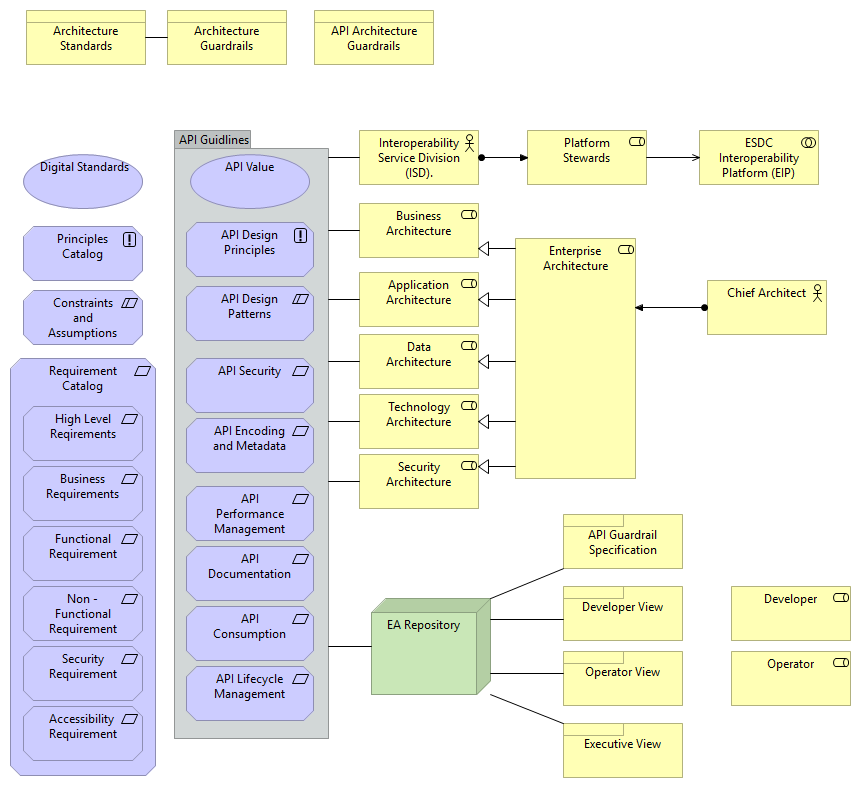
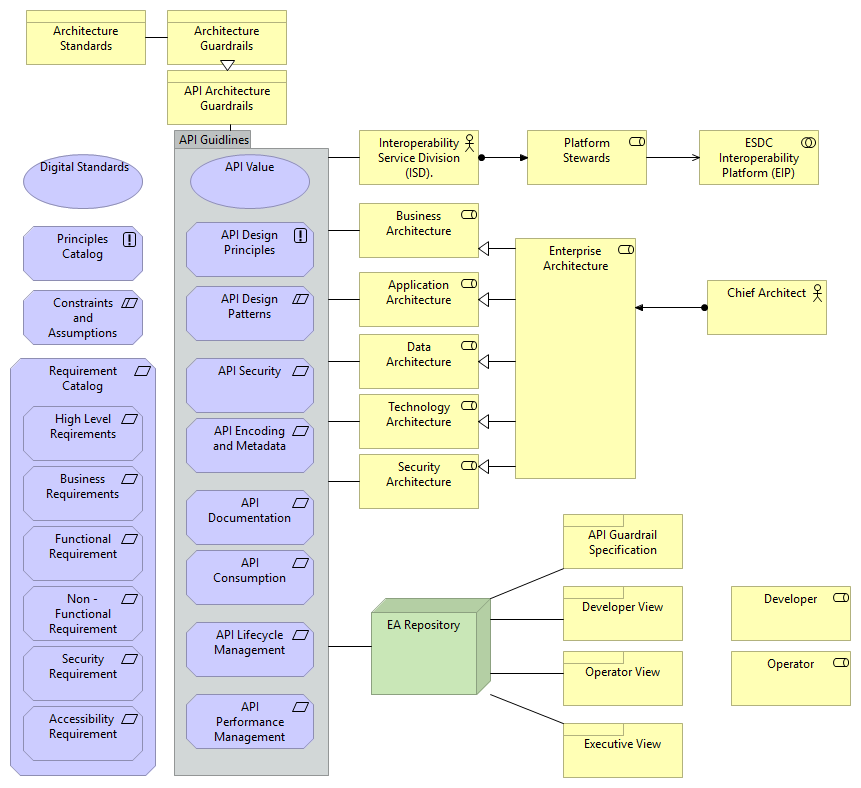
API GL Plan

Changed region(s): [[0.1812, 0.6091, 0.3926, 1.0], [0.1812, 0.0609, 0.3322, 0.1827], [0.3624, 0.0, 0.5134, 0.0914]]

diff --git a/reports/CommonSandbox Report/e8ecca68-8692-400d-9425-b00d60784a26/elements/model.html b/reports/CommonSandbox Report/e8ecca68-8692-400d-9425-b00d60784a26/elements/model.html
@@ -1103,6 +1103,8 @@
 										dataElements.push({id:"5dff957a-8be6-4078-91fb-82da8abefbd2", type:"BusinessObject", name:decodeURL("External"), documentation:decodeURL("")});
 									dataFoldersContent.push({folderid:"b450b6a4-519b-4191-a289-4df897ca0a1b", contentid:"5d2162f8-f209-4747-b617-38861b9877d8", contenttype:"BusinessObject"});
 										dataElements.push({id:"5d2162f8-f209-4747-b617-38861b9877d8", type:"BusinessObject", name:decodeURL("Internal"), documentation:decodeURL("")});
+									dataFoldersContent.push({folderid:"b450b6a4-519b-4191-a289-4df897ca0a1b", contentid:"f7898772-abf9-411e-99bd-1dfcaa46b428", contenttype:"Representation"});
+										dataElements.push({id:"f7898772-abf9-411e-99bd-1dfcaa46b428", type:"Representation", name:decodeURL("Business+Case"), documentation:decodeURL("")});
 
 								dataFoldersContent.push({folderid:"e8ecca68-8692-400d-9425-b00d60784a26", contentid:"4b1b92bd-7586-4e58-927a-fdad7c2d42fb", contenttype:"Folder"});
 								dataFolders.push({id:"4b1b92bd-7586-4e58-927a-fdad7c2d42fb", type:"Folder", name:decodeURL("Application"), documentation:decodeURL("")});
@@ -2361,15 +2363,15 @@
 									dataFoldersContent.push({folderid:"0098779f-eaf3-4d47-a68a-16743a5b13a9", contentid:"5ba95759-e9aa-425c-95f2-177bcc321286", contenttype:"Value"});
 										dataElements.push({id:"5ba95759-e9aa-425c-95f2-177bcc321286", type:"Value", name:decodeURL("Value"), documentation:decodeURL("")});
 									dataFoldersContent.push({folderid:"0098779f-eaf3-4d47-a68a-16743a5b13a9", contentid:"ae0a607e-3e24-4230-8bdd-9173655b9c1e", contenttype:"Requirement"});
-										dataElements.push({id:"ae0a607e-3e24-4230-8bdd-9173655b9c1e", type:"Requirement", name:decodeURL("API+Security"), documentation:decodeURL("")});
+										dataElements.push({id:"ae0a607e-3e24-4230-8bdd-9173655b9c1e", type:"Requirement", name:decodeURL("API+Security"), documentation:decodeURL("as+part+of+a+%22security+by+design%22+philosophy+for+all+API+development.+Outside+of+this+baseline+set+of+security+controls%2C+additional+controls+%28e.g.%2C+message-level+encryption%2C+mutual+authentication%2C+and+digital+signatures%29+may+be+required+based+on+the+sensitivity+of+the+data")});
 									dataFoldersContent.push({folderid:"0098779f-eaf3-4d47-a68a-16743a5b13a9", contentid:"5b7fb433-497c-48bc-b8b5-4431d25a8e15", contenttype:"Requirement"});
-										dataElements.push({id:"5b7fb433-497c-48bc-b8b5-4431d25a8e15", type:"Requirement", name:decodeURL("API+Encoding+and+Metadata"), documentation:decodeURL("")});
+										dataElements.push({id:"5b7fb433-497c-48bc-b8b5-4431d25a8e15", type:"Requirement", name:decodeURL("API+Encoding+and+Metadata"), documentation:decodeURL("Consistent+metadata+and+encoding+ensures+that+APIs+are+interoperable+across+organizations+and+helps+to+maintain+data+consistency.+")});
 									dataFoldersContent.push({folderid:"0098779f-eaf3-4d47-a68a-16743a5b13a9", contentid:"825a3a8c-1c2a-4e9e-a5d4-f68cec47d618", contenttype:"Requirement"});
-										dataElements.push({id:"825a3a8c-1c2a-4e9e-a5d4-f68cec47d618", type:"Requirement", name:decodeURL("API+Documentation"), documentation:decodeURL("")});
+										dataElements.push({id:"825a3a8c-1c2a-4e9e-a5d4-f68cec47d618", type:"Requirement", name:decodeURL("API+Documentation"), documentation:decodeURL("ESDC+APIs+must+be+published+to+the+Government+of+Canada+API+store+to+be+discoverable.+The+documentation+MVP+for+ESDC+APIs+includes+everything+the+API+does%2C+including+resources%2C+endpoints+and+methods%2C+parameters%2C+error+codes%2C+and+example+requests+and+responses")});
 									dataFoldersContent.push({folderid:"0098779f-eaf3-4d47-a68a-16743a5b13a9", contentid:"146c40d8-0153-496b-a1bf-01b4795850b3", contenttype:"Requirement"});
-										dataElements.push({id:"146c40d8-0153-496b-a1bf-01b4795850b3", type:"Requirement", name:decodeURL("API+Consumption"), documentation:decodeURL("")});
+										dataElements.push({id:"146c40d8-0153-496b-a1bf-01b4795850b3", type:"Requirement", name:decodeURL("API+Consumption"), documentation:decodeURL("The+best+way+to+validate+your+API+design+is+to+consume+it+with+a+production+application+within+your+organization.+Ideally%2C+once+the+data+layer+is+built%2C+the+next+step+is+to+build+the+application+on+top+of+an+API")});
 									dataFoldersContent.push({folderid:"0098779f-eaf3-4d47-a68a-16743a5b13a9", contentid:"97283225-f9a6-4604-8772-d60298f6017f", contenttype:"Requirement"});
-										dataElements.push({id:"97283225-f9a6-4604-8772-d60298f6017f", type:"Requirement", name:decodeURL("API+Lifecycle+Management"), documentation:decodeURL("")});
+										dataElements.push({id:"97283225-f9a6-4604-8772-d60298f6017f", type:"Requirement", name:decodeURL("API+Lifecycle+Management"), documentation:decodeURL("APIs+will+change+over+time+as+corresponding+source+systems+evolve.+To+provide+a+robust+and+durable+interface+to+applications%2C+API+lifecycle+management+must+include+a+standard+versioning+scheme+such+that+any+changes+to+an+API+do+not+break+the+contract+with+existing+consumers")});
 									dataFoldersContent.push({folderid:"0098779f-eaf3-4d47-a68a-16743a5b13a9", contentid:"1570995a-d5b9-45ac-b3e9-fff4eac89163", contenttype:"Requirement"});
 										dataElements.push({id:"1570995a-d5b9-45ac-b3e9-fff4eac89163", type:"Requirement", name:decodeURL("API+Performance+Management"), documentation:decodeURL("API+performance+should+be+benchmarked+periodically+to+ensure+the+performance+and+capacity+meets+the+expectations+of+the+SLO.++")});
 									dataFoldersContent.push({folderid:"0098779f-eaf3-4d47-a68a-16743a5b13a9", contentid:"57f3ff4b-7c5d-4bce-8324-e0c3e2a36ed3", contenttype:"Constraint"});
@@ -5313,6 +5315,8 @@
 										dataRelationships.push({id:"d5473e51-6328-464c-a380-245bc293e08a", type:"AssociationRelationship", name:decodeURL(""), documentation:decodeURL(""), sourceid:"1ffed886-217c-444f-9a2d-9b24f25cc898", targetid:"1570995a-d5b9-45ac-b3e9-fff4eac89163"});
 									dataFoldersContent.push({folderid:"964c78d0-4d5e-480d-870a-c6e4ef8a9043", contentid:"e2786408-855c-484a-813c-18580ffdfda4", contenttype:"AssociationRelationship"});
 										dataRelationships.push({id:"e2786408-855c-484a-813c-18580ffdfda4", type:"AssociationRelationship", name:decodeURL(""), documentation:decodeURL(""), sourceid:"6155f236-8ace-4b73-80b0-be22c7022c6c", targetid:"60f63855-a828-4b5b-9268-417df8350d0e"});
+									dataFoldersContent.push({folderid:"964c78d0-4d5e-480d-870a-c6e4ef8a9043", contentid:"da318212-3cfa-4263-8d00-2549464537cc", contenttype:"SpecializationRelationship"});
+										dataRelationships.push({id:"da318212-3cfa-4263-8d00-2549464537cc", type:"SpecializationRelationship", name:decodeURL(""), documentation:decodeURL(""), sourceid:"06c492be-ccd5-4fff-83f4-f98b7fc4f906", targetid:"b473190d-b5e1-4655-8c3f-bf87099ce8be"});
 
 								dataFoldersContent.push({folderid:"e8ecca68-8692-400d-9425-b00d60784a26", contentid:"ab3b8318-9412-45a2-b596-d82d60848e7e", contenttype:"Folder"});
 								dataFolders.push({id:"ab3b8318-9412-45a2-b596-d82d60848e7e", type:"Folder", name:decodeURL("Views"), documentation:decodeURL("")});
@@ -6616,6 +6620,7 @@
 												dataViewsContent.push({viewid:"e02c223f-879f-443a-b1cd-a75484cb0ee4", contentid:"5c465ddd-4f28-4da5-9971-4e830bdaf656", contenttype:"DiagramModelArchimateObject"});
 												dataViewsContent.push({viewid:"e02c223f-879f-443a-b1cd-a75484cb0ee4", contentid:"e2ee4a6a-9a2f-4415-827b-ebf7d02d918c", contenttype:"DiagramModelArchimateObject"});
 												dataViewsContent.push({viewid:"e02c223f-879f-443a-b1cd-a75484cb0ee4", contentid:"ce85641c-2756-4e7e-b97b-5fb76d5b6a62", contenttype:"DiagramModelArchimateObject"});
+												dataViewsContent.push({viewid:"e02c223f-879f-443a-b1cd-a75484cb0ee4", contentid:"99226e8f-319b-4fc4-9373-25eeb9bdbb26", contenttype:"DiagramModelArchimateObject"});
 
 																		dataViewsContent.push({viewid:"e02c223f-879f-443a-b1cd-a75484cb0ee4", contentid:"35a08f08-421c-4558-95f0-f006270d7ecd", contenttype:"DiagramModelArchimateConnection"});
 
@@ -9601,6 +9606,8 @@
 												dataViewsContent.push({viewid:"5a58bb99-e3ee-4f0b-a285-39b2571485c9", contentid:"a2c19641-3525-4089-86b5-caa467130da1", contenttype:"DiagramModelArchimateObject"});
 
 												
+																		dataViewsContent.push({viewid:"5a58bb99-e3ee-4f0b-a285-39b2571485c9", contentid:"9925641e-f098-4406-bbbd-765d9988a38d", contenttype:"DiagramModelArchimateConnection"});
+
 																		dataViewsContent.push({viewid:"5a58bb99-e3ee-4f0b-a285-39b2571485c9", contentid:"afc57971-33cc-4629-a6e0-0f90b33cec8c", contenttype:"DiagramModelArchimateConnection"});
 
 																		dataViewsContent.push({viewid:"5a58bb99-e3ee-4f0b-a285-39b2571485c9", contentid:"b23f85b9-a296-4cfa-aff0-232590a9da85", contenttype:"DiagramModelArchimateConnection"});

diff --git a/reports/CommonSandbox Report/e8ecca68-8692-400d-9425-b00d60784a26/views/5a58bb99-e3ee-4f0b-a285-39b2571485c9.html b/reports/CommonSandbox Report/e8ecca68-8692-400d-9425-b00d60784a26/views/5a58bb99-e3ee-4f0b-a285-39b2571485c9.html
@@ -63,19 +63,19 @@
 				  		<area shape="rect" coords="10,358,156,776" href="../elements/207319d9-514d-4655-a27e-7bd92e4b1d49.html"  target="element">
 				  		<area shape="rect" coords="23,226,143,281" href="../elements/6155f236-8ace-4b73-80b0-be22c7022c6c.html"  target="element">
 				  		<area shape="rect" coords="26,10,146,65" href="../elements/cf3130d5-3924-40c4-bf19-37470c013751.html"  target="element">
-				  		<area shape="rect" coords="314,10,434,65" href="../elements/b473190d-b5e1-4655-8c3f-bf87099ce8be.html"  target="element">
+				  		<area shape="rect" coords="167,70,287,125" href="../elements/b473190d-b5e1-4655-8c3f-bf87099ce8be.html"  target="element">
 				  		<area shape="rect" coords="167,10,287,65" href="../elements/06c492be-ccd5-4fff-83f4-f98b7fc4f906.html"  target="element">
 				  				<area shape="rect" coords="190,154,310,209" href="../elements/7c7fffee-32fe-47f2-8cc0-763f676c1a0e.html"  target="element">
-				  				<area shape="rect" coords="186,486,314,541" href="../elements/1570995a-d5b9-45ac-b3e9-fff4eac89163.html"  target="element">
-				  				<area shape="rect" coords="186,546,314,601" href="../elements/825a3a8c-1c2a-4e9e-a5d4-f68cec47d618.html"  target="element">
+				  				<area shape="rect" coords="186,694,314,749" href="../elements/1570995a-d5b9-45ac-b3e9-fff4eac89163.html"  target="element">
+				  				<area shape="rect" coords="186,490,314,545" href="../elements/825a3a8c-1c2a-4e9e-a5d4-f68cec47d618.html"  target="element">
 				  				<area shape="rect" coords="186,418,314,473" href="../elements/5b7fb433-497c-48bc-b8b5-4431d25a8e15.html"  target="element">
-				  				<area shape="rect" coords="186,606,314,661" href="../elements/146c40d8-0153-496b-a1bf-01b4795850b3.html"  target="element">
+				  				<area shape="rect" coords="186,550,314,605" href="../elements/146c40d8-0153-496b-a1bf-01b4795850b3.html"  target="element">
 				  				<area shape="rect" coords="186,358,314,413" href="../elements/ae0a607e-3e24-4230-8bdd-9173655b9c1e.html"  target="element">
 				  				<area shape="rect" coords="186,222,314,277" href="../elements/60f63855-a828-4b5b-9268-417df8350d0e.html"  target="element">
 				  				<area shape="rect" coords="186,286,314,341" href="../elements/57f3ff4b-7c5d-4bce-8324-e0c3e2a36ed3.html"  target="element">
-				  				<area shape="rect" coords="186,666,314,721" href="../elements/97283225-f9a6-4604-8772-d60298f6017f.html"  target="element">
+				  				<area shape="rect" coords="186,622,314,677" href="../elements/97283225-f9a6-4604-8772-d60298f6017f.html"  target="element">
 
-				          <area shape="rect" coords="174,130,329,739" href="../objects/8d04530c-8e5d-425f-8958-49e44c1f3661.html" target="element" >
+				          <area shape="rect" coords="174,130,329,776" href="../objects/8d04530c-8e5d-425f-8958-49e44c1f3661.html" target="element" >
 
 			   </map>
 
@@ -339,6 +339,13 @@
 								<tbody>
 											<!-- DEBUG: Skipping element from class com.archimatetool.model.impl.DiagramModelGroup -->
 											
+																	<tr>
+																		<td> <a href="../elements/da318212-3cfa-4263-8d00-2549464537cc.html" target="element">  </a> </td>
+																		<td> <a href="../elements/da318212-3cfa-4263-8d00-2549464537cc.html" target="element" class="i18n-elementtype-SpecializationRelationship"></a> </td>
+																		<td> <a href="../elements/06c492be-ccd5-4fff-83f4-f98b7fc4f906.html" target="element"> Architecture Guardrails </a> </td>
+																		<td> <a href="../elements/b473190d-b5e1-4655-8c3f-bf87099ce8be.html" target="element"> API Architecture Guardrails </a> </td>
+																	</tr>
+
 																	<tr>
 																		<td> <a href="../elements/171e31d4-19cb-43a7-8c4b-826d6cecaaa0.html" target="element">  </a> </td>
 																		<td> <a href="../elements/171e31d4-19cb-43a7-8c4b-826d6cecaaa0.html" target="element" class="i18n-elementtype-AssociationRelationship"></a> </td>

diff --git a/reports/CommonSandbox Report/e8ecca68-8692-400d-9425-b00d60784a26/elements/da318212-3cfa-4263-8d00-2549464537cc.html b/reports/CommonSandbox Report/e8ecca68-8692-400d-9425-b00d60784a26/elements/da318212-3cfa-4263-8d00-2549464537cc.html
@@ -2,7 +2,7 @@
 <html class="frame" lang="en">
 <head>
 	<meta http-equiv="Content-Type" content="text/html;charset=utf-8">
-	<title>API Security</title>
+	<title></title>
 
 	<!-- JQUERY (use 1.x branch to be compatible with IE 6/7/8) -->
 	<script type="text/javascript" src="../../lib/jquery/js/jquery-1.11.2.min.js"></script>
@@ -22,11 +22,10 @@
 
 		<div class="panel-heading root-panel-heading">
             <!-- Name -->
-               <b>API Security</b>
-
+               <b class="i18n-elementtype-SpecializationRelationship"></b>
             <!-- If a View with Viewpoint -->
-			   (<span class="i18n-elementtype-Requirement"></span>)
-			   <a class="glyphicon glyphicon-info-sign" id="hint-Requirement" target="hint"></a>
+			   (<span class="i18n-elementtype-SpecializationRelationship"></span>)
+			   <a class="glyphicon glyphicon-info-sign" id="hint-SpecializationRelationship" target="hint"></a>
 		</div>
 
 		<div class="panel-body root-panel-body">
@@ -46,7 +45,17 @@
 				<!-- Tab panes -->
 				<div class="tab-content">
 					<div role="tabpanel" class="tab-pane active" id="documentation">
-						<textarea id="docsrc" style="display:none">as part of a "security by design" philosophy for all API development. Outside of this baseline set of security controls, additional controls (e.g., message-level encryption, mutual authentication, and digital signatures) may be required based on the sensitivity of the data</textarea>
+							<br>
+							<b class="i18n-relation-source"></b>
+								<a href="../elements/06c492be-ccd5-4fff-83f4-f98b7fc4f906.html" target="element">
+									Architecture Guardrails
+								</a> <br>
+							<b class="i18n-relation-target"></b>
+								<a href="../elements/b473190d-b5e1-4655-8c3f-bf87099ce8be.html" target="element">
+									API Architecture Guardrails
+								</a> <br>
+							<br>
+						<textarea id="docsrc" style="display:none"></textarea>
 						<div id="doctgt" style="white-space:pre-wrap"></div>
 					</div>
 					<div role="tabpanel" class="tab-pane" id="properties">

diff --git a/reports/CommonSandbox Report/e8ecca68-8692-400d-9425-b00d60784a26/elements/f7898772-abf9-411e-99bd-1dfcaa46b428.html b/reports/CommonSandbox Report/e8ecca68-8692-400d-9425-b00d60784a26/elements/f7898772-abf9-411e-99bd-1dfcaa46b428.html
@@ -2,7 +2,7 @@
 <html class="frame" lang="en">
 <head>
 	<meta http-equiv="Content-Type" content="text/html;charset=utf-8">
-	<title>API Security</title>
+	<title>Business Case</title>
 
 	<!-- JQUERY (use 1.x branch to be compatible with IE 6/7/8) -->
 	<script type="text/javascript" src="../../lib/jquery/js/jquery-1.11.2.min.js"></script>
@@ -22,11 +22,11 @@
 
 		<div class="panel-heading root-panel-heading">
             <!-- Name -->
-               <b>API Security</b>
+               <b>Business Case</b>
 
             <!-- If a View with Viewpoint -->
-			   (<span class="i18n-elementtype-Requirement"></span>)
-			   <a class="glyphicon glyphicon-info-sign" id="hint-Requirement" target="hint"></a>
+			   (<span class="i18n-elementtype-Representation"></span>)
+			   <a class="glyphicon glyphicon-info-sign" id="hint-Representation" target="hint"></a>
 		</div>
 
 		<div class="panel-body root-panel-body">
@@ -46,7 +46,7 @@
 				<!-- Tab panes -->
 				<div class="tab-content">
 					<div role="tabpanel" class="tab-pane active" id="documentation">
-						<textarea id="docsrc" style="display:none">as part of a "security by design" philosophy for all API development. Outside of this baseline set of security controls, additional controls (e.g., message-level encryption, mutual authentication, and digital signatures) may be required based on the sensitivity of the data</textarea>
+						<textarea id="docsrc" style="display:none"></textarea>
 						<div id="doctgt" style="white-space:pre-wrap"></div>
 					</div>
 					<div role="tabpanel" class="tab-pane" id="properties">

diff --git a/reports/CommonSandbox Report/e8ecca68-8692-400d-9425-b00d60784a26/views/e02c223f-879f-443a-b1cd-a75484cb0ee4.html b/reports/CommonSandbox Report/e8ecca68-8692-400d-9425-b00d60784a26/views/e02c223f-879f-443a-b1cd-a75484cb0ee4.html
@@ -34,6 +34,7 @@
 		    <!-- If this is a digram model (has children and no bounds) show the image -->
 			   <img class="diagram" src="../images/e02c223f-879f-443a-b1cd-a75484cb0ee4.png" alt="Plan" usemap="#e02c223f-879f-443a-b1cd-a75484cb0ee4map"/>
 			   <map name="e02c223f-879f-443a-b1cd-a75484cb0ee4map">
+				  		<area shape="rect" coords="262,478,382,533" href="../elements/f7898772-abf9-411e-99bd-1dfcaa46b428.html"  target="element">
 				  		<area shape="rect" coords="538,81,658,136" href="../elements/521f8a36-07e7-4645-8e75-2a3047c99399.html"  target="element">
 				  		<area shape="rect" coords="406,478,526,533" href="../elements/06c492be-ccd5-4fff-83f4-f98b7fc4f906.html"  target="element">
 				  		<area shape="rect" coords="766,478,886,533" href="../elements/58e5fad6-6b5b-4bcf-84ad-51c5325c2347.html"  target="element">
@@ -276,6 +277,11 @@
 											<tr>
 											    <td> <a href="../elements/521f8a36-07e7-4645-8e75-2a3047c99399.html" target="element">  Digital Standards </a> </td>
 											    <td> <a href="../elements/521f8a36-07e7-4645-8e75-2a3047c99399.html" target="element" class="i18n-elementtype-Value"> </a> </td>
+											</tr>
+
+											<tr>
+											    <td> <a href="../elements/f7898772-abf9-411e-99bd-1dfcaa46b428.html" target="element"> Business Case </a> </td>
+											    <td> <a href="../elements/f7898772-abf9-411e-99bd-1dfcaa46b428.html" target="element" class="i18n-elementtype-Representation"> </a> </td>
 											</tr>
 
 

diff --git a/reports/CommonSandbox Report/index.html b/reports/CommonSandbox Report/index.html
@@ -557,6 +557,7 @@
 													<li class="tree-element"><a href="e8ecca68-8692-400d-9425-b00d60784a26/elements/aff8ab10-9d6c-4b8f-9b0c-0f25fe5c2d5a.html" target="element">  Reference DM Architecture Guardrails </a></li>
 													<li class="tree-element"><a href="e8ecca68-8692-400d-9425-b00d60784a26/elements/5dff957a-8be6-4078-91fb-82da8abefbd2.html" target="element"> External </a></li>
 													<li class="tree-element"><a href="e8ecca68-8692-400d-9425-b00d60784a26/elements/5d2162f8-f209-4747-b617-38861b9877d8.html" target="element"> Internal </a></li>
+													<li class="tree-element"><a href="e8ecca68-8692-400d-9425-b00d60784a26/elements/f7898772-abf9-411e-99bd-1dfcaa46b428.html" target="element"> Business Case </a></li>
 
 									</ul>
 								</li>
@@ -6566,6 +6567,10 @@
 													<li class="tree-element"><a href="e8ecca68-8692-400d-9425-b00d60784a26/elements/e2786408-855c-484a-813c-18580ffdfda4.html" target="element">
 															<span class="i18n-elementtype-AssociationRelationship"></span>
 														(Principles Catalog - API Design Principles) 
+													</a></li>
+													<li class="tree-element"><a href="e8ecca68-8692-400d-9425-b00d60784a26/elements/da318212-3cfa-4263-8d00-2549464537cc.html" target="element">
+															<span class="i18n-elementtype-SpecializationRelationship"></span>
+														(Architecture Guardrails - API Architecture Guardrails) 
 													</a></li>
 
 									</ul>

diff --git a/reports/CommonSandbox Report/e8ecca68-8692-400d-9425-b00d60784a26/elements/97283225-f9a6-4604-8772-d60298f6017f.html b/reports/CommonSandbox Report/e8ecca68-8692-400d-9425-b00d60784a26/elements/97283225-f9a6-4604-8772-d60298f6017f.html
@@ -46,7 +46,7 @@
 				<!-- Tab panes -->
 				<div class="tab-content">
 					<div role="tabpanel" class="tab-pane active" id="documentation">
-						<textarea id="docsrc" style="display:none"></textarea>
+						<textarea id="docsrc" style="display:none">APIs will change over time as corresponding source systems evolve. To provide a robust and durable interface to applications, API lifecycle management must include a standard versioning scheme such that any changes to an API do not break the contract with existing consumers</textarea>
 						<div id="doctgt" style="white-space:pre-wrap"></div>
 					</div>
 					<div role="tabpanel" class="tab-pane" id="properties">

diff --git a/reports/CommonSandbox Report/e8ecca68-8692-400d-9425-b00d60784a26/elements/825a3a8c-1c2a-4e9e-a5d4-f68cec47d618.html b/reports/CommonSandbox Report/e8ecca68-8692-400d-9425-b00d60784a26/elements/825a3a8c-1c2a-4e9e-a5d4-f68cec47d618.html
@@ -46,7 +46,7 @@
 				<!-- Tab panes -->
 				<div class="tab-content">
 					<div role="tabpanel" class="tab-pane active" id="documentation">
-						<textarea id="docsrc" style="display:none"></textarea>
+						<textarea id="docsrc" style="display:none">ESDC APIs must be published to the Government of Canada API store to be discoverable. The documentation MVP for ESDC APIs includes everything the API does, including resources, endpoints and methods, parameters, error codes, and example requests and responses</textarea>
 						<div id="doctgt" style="white-space:pre-wrap"></div>
 					</div>
 					<div role="tabpanel" class="tab-pane" id="properties">

diff --git a/reports/CommonSandbox Report/e8ecca68-8692-400d-9425-b00d60784a26/elements/146c40d8-0153-496b-a1bf-01b4795850b3.html b/reports/CommonSandbox Report/e8ecca68-8692-400d-9425-b00d60784a26/elements/146c40d8-0153-496b-a1bf-01b4795850b3.html
@@ -46,7 +46,7 @@
 				<!-- Tab panes -->
 				<div class="tab-content">
 					<div role="tabpanel" class="tab-pane active" id="documentation">
-						<textarea id="docsrc" style="display:none"></textarea>
+						<textarea id="docsrc" style="display:none">The best way to validate your API design is to consume it with a production application within your organization. Ideally, once the data layer is built, the next step is to build the application on top of an API</textarea>
 						<div id="doctgt" style="white-space:pre-wrap"></div>
 					</div>
 					<div role="tabpanel" class="tab-pane" id="properties">

diff --git a/reports/CommonSandbox Report/e8ecca68-8692-400d-9425-b00d60784a26/elements/5b7fb433-497c-48bc-b8b5-4431d25a8e15.html b/reports/CommonSandbox Report/e8ecca68-8692-400d-9425-b00d60784a26/elements/5b7fb433-497c-48bc-b8b5-4431d25a8e15.html
@@ -46,7 +46,7 @@
 				<!-- Tab panes -->
 				<div class="tab-content">
 					<div role="tabpanel" class="tab-pane active" id="documentation">
-						<textarea id="docsrc" style="display:none"></textarea>
+						<textarea id="docsrc" style="display:none">Consistent metadata and encoding ensures that APIs are interoperable across organizations and helps to maintain data consistency. </textarea>
 						<div id="doctgt" style="white-space:pre-wrap"></div>
 					</div>
 					<div role="tabpanel" class="tab-pane" id="properties">
